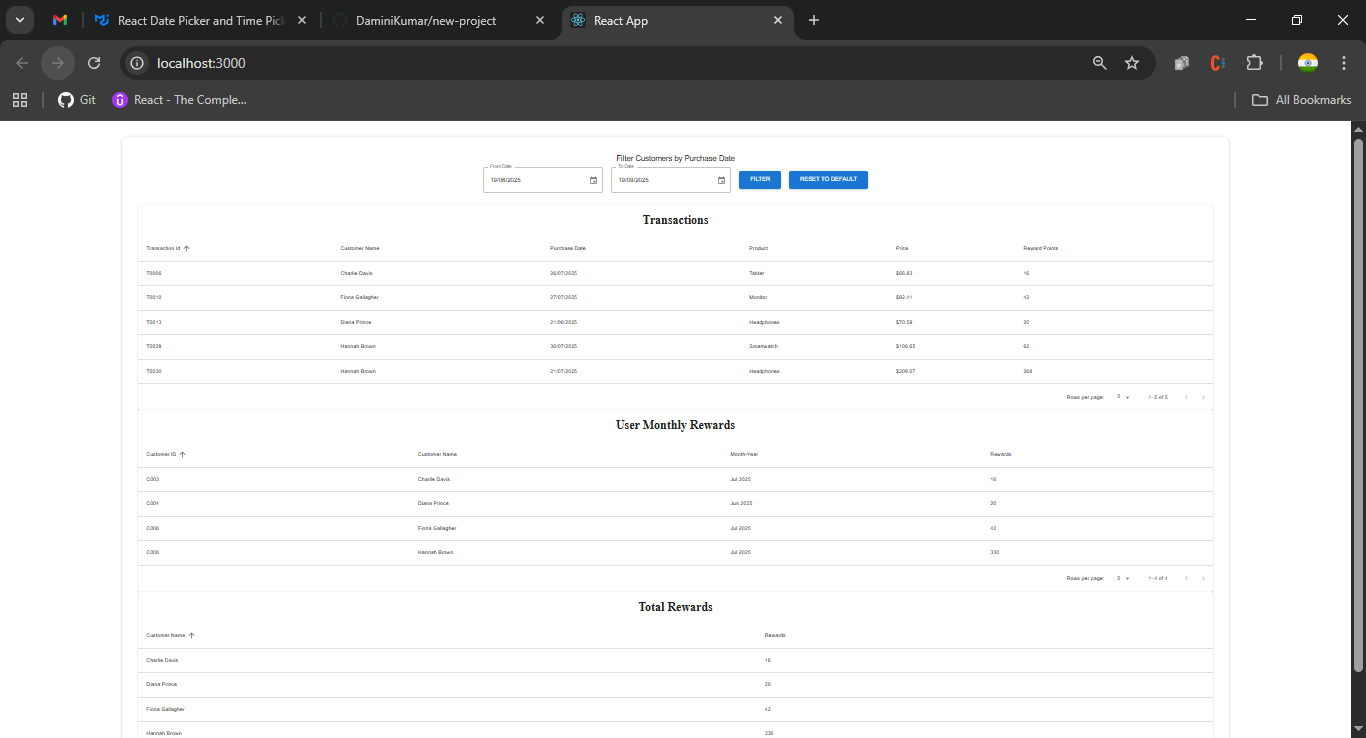
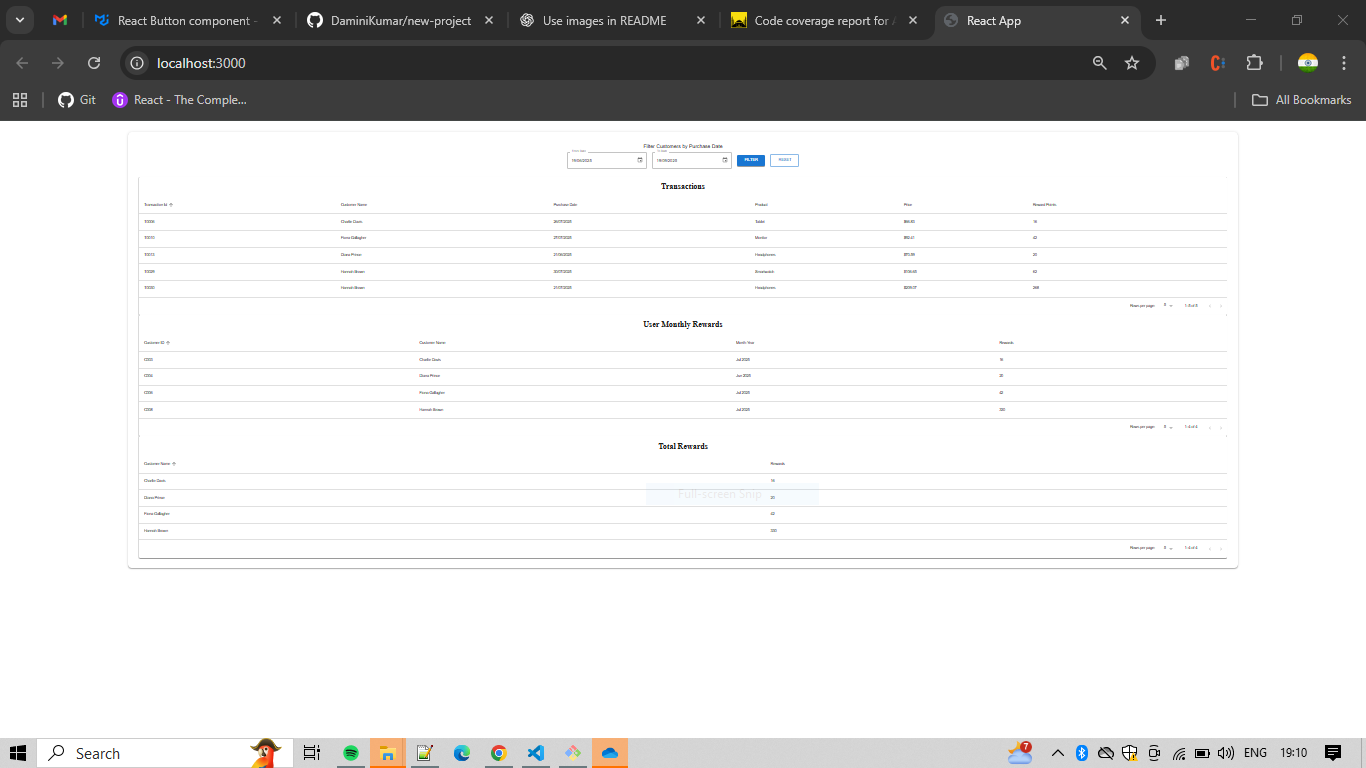
updated button type and fixed test

diff --git a/src/component/FilteredCustomers.test.js b/src/component/FilteredCustomers.test.js
@@ -110,7 +110,7 @@ describe("FilteredCustomers Component", () => {
     render(<FilteredCustomers />);
     await screen.findByTestId("table-container");
 
-    const button = screen.getByRole("button", { name: /Reset To Default/i });
+    const button = screen.getByRole("button", { name: /Reset/i });
     fireEvent.click(button);
 
     const table = await screen.findByTestId("table-container");

diff --git a/src/component/FilteredCustomers.js b/src/component/FilteredCustomers.js
@@ -119,7 +119,7 @@ export default function FilteredCustomers() {
               {filter}
             </Button>
             <Button
-              variant="contained"
+              variant="outlined"
               size="large"
               onClick={() => handleReset()}
             >

diff --git a/src/utils/const.js b/src/utils/const.js
@@ -9,7 +9,7 @@ export const errorFetchingData =
 
 export const filter = "Filter";
 
-export const reset = "Reset To Default";
+export const reset = "Reset";
 
 export const filterCustomerByPurchaseDate = "Filter Customers by Purchase Date";
 
